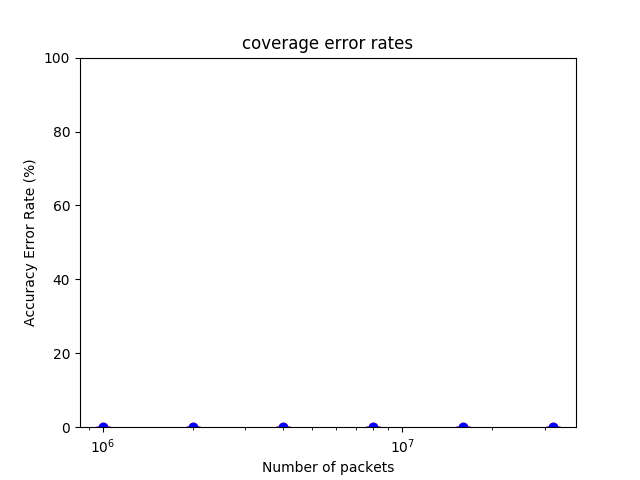
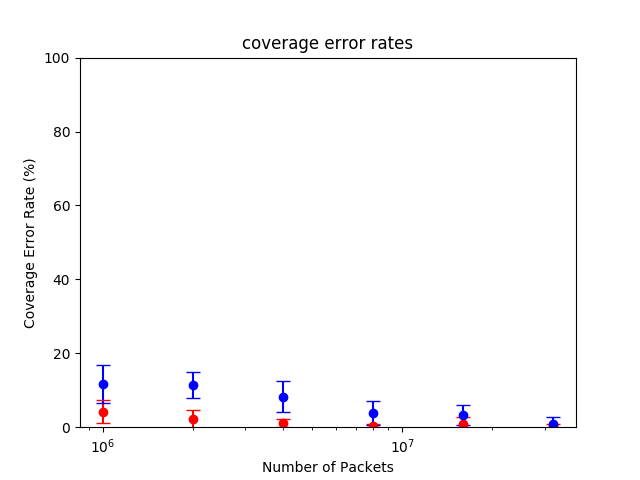
Change rate to %. Add correct labels

diff --git a/plot_graph.py b/plot_graph.py
@@ -27,11 +27,11 @@ def extract_coverage_error_rates(results_obj):
 	    for trial in results_obj[packet_num]:
 		coverage_errors = trial["coverage_errors"]
 		num_exact_hhh = trial["num_exact_hhh"]
-		error_rates.append(float(coverage_errors)/float(num_exact_hhh))
+		error_rates.append(100*float(coverage_errors)/float(num_exact_hhh))
 	    packet_num_to_coverage[packet_num] = confidence_interval_95(error_rates)
 	return packet_num_to_coverage
 
-def graph(rhh_confidence_intervals, _10_rhh_confidence_intervals, graph_name):
+def graph(rhh_confidence_intervals, _10_rhh_confidence_intervals, graph_name, x_label, y_label):
 	x_val = [rhh_confidence_intervals.keys(), _10_rhh_confidence_intervals.keys()]
 	intervals = [rhh_confidence_intervals.values(), _10_rhh_confidence_intervals.values()]
 	y_val = [[], []]
@@ -44,8 +44,8 @@ def graph(rhh_confidence_intervals, _10_rhh_confidence_intervals, graph_name):
 	ax = fig.add_subplot(111)
 	ax.errorbar(x_val[0], y_val[0], yerr=y_err[0], color="red", marker='o', capsize=5, ls="none")
 	ax.errorbar(x_val[1], y_val[1], yerr=y_err[1], color="blue", marker='o', capsize=5, ls="none")
-	ax.set_xlabel("Number of packets")
-	ax.set_ylabel("Accuracy Error Rate (%)")
+	ax.set_xlabel(x_label)
+	ax.set_ylabel(y_label)
 	ax.set_ylim([0,100])
 	ax.set_xscale("log")
 	plt.title(graph_name)
@@ -72,8 +72,8 @@ def main():
 	_10_accuracy_error_rates = extract_accuracy_error_rates(_10_rhhh_results)
 	_10_coverage_error_rates = extract_coverage_error_rates(_10_rhhh_results)
 
-	graph(accuracy_error_rates, _10_accuracy_error_rates, "accuracy error rates")
-	graph(coverage_error_rates, _10_coverage_error_rates, "coverage error rates")
+	graph(accuracy_error_rates, _10_accuracy_error_rates, graph_name="accuracy error rates", x_label="Number of Packets", y_label="Accuracy Error Rate (%)")
+	graph(coverage_error_rates, _10_coverage_error_rates, graph_name="coverage error rates", x_label="Number of Packets", y_label="Coverage Error Rate (%)")
 
 if __name__ == "__main__":
 	main()
